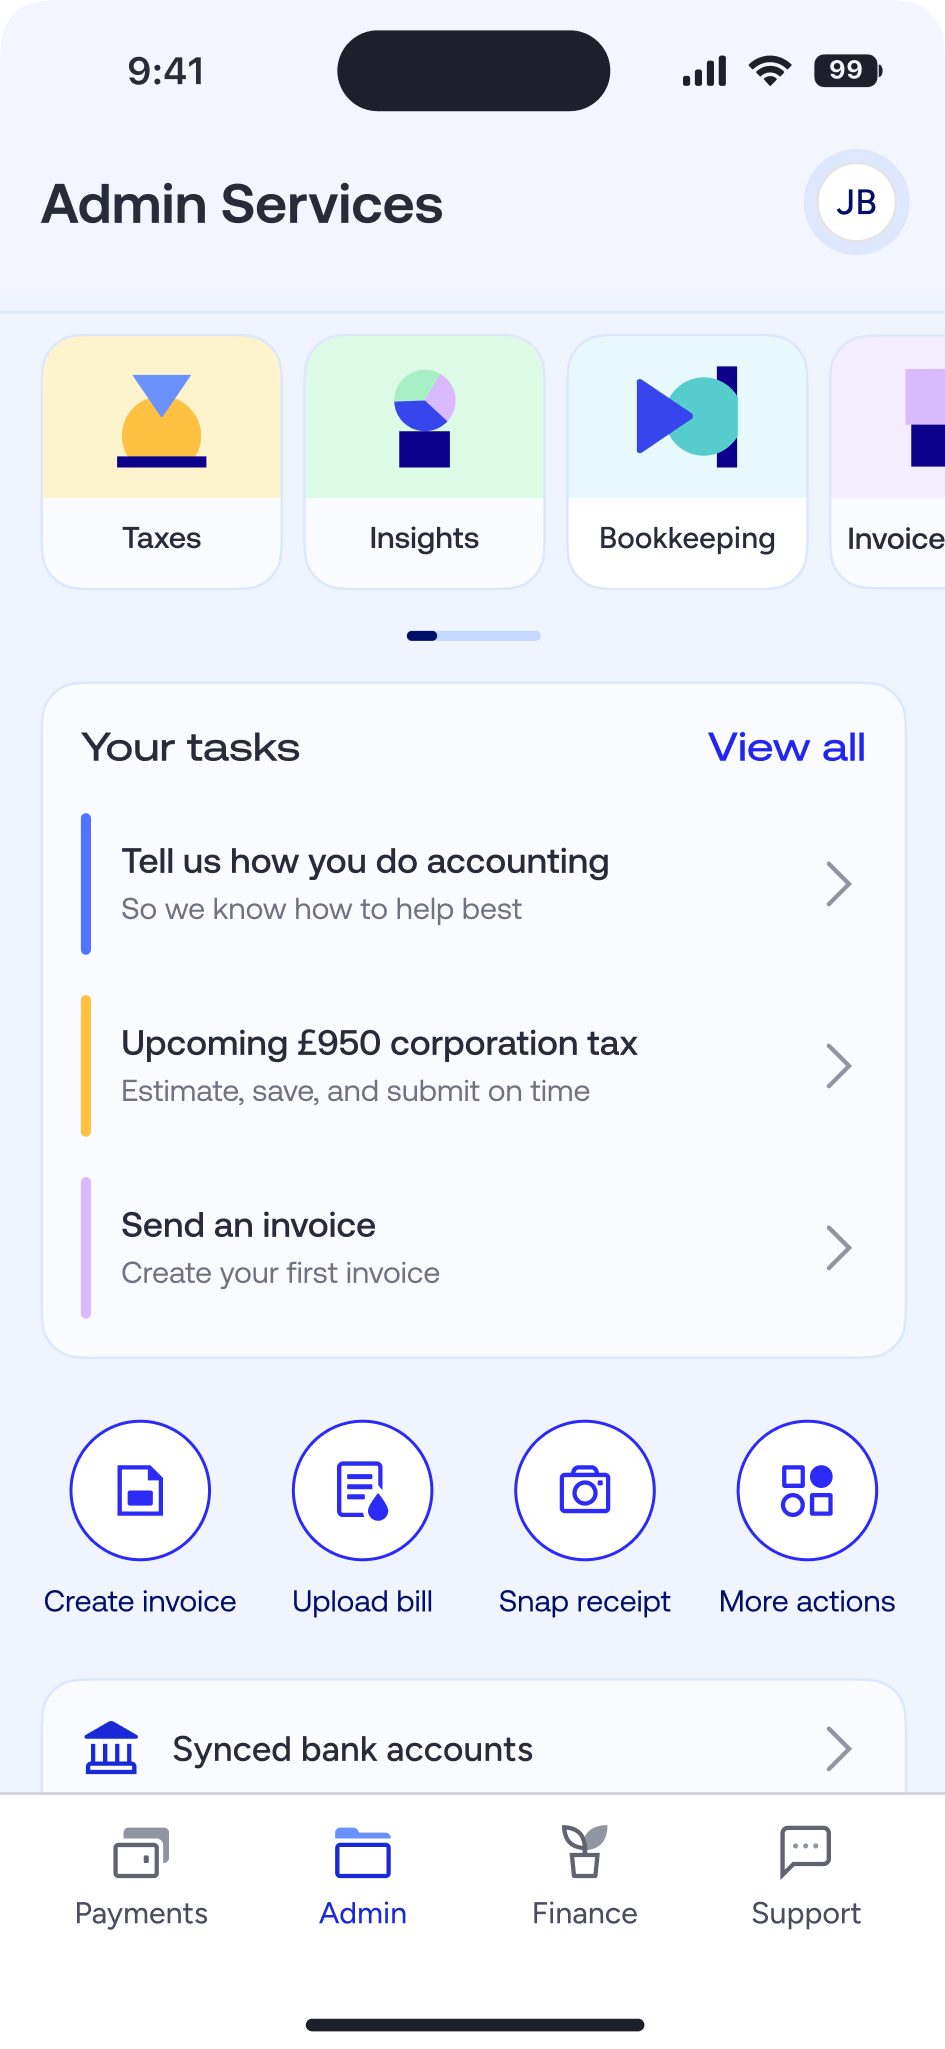
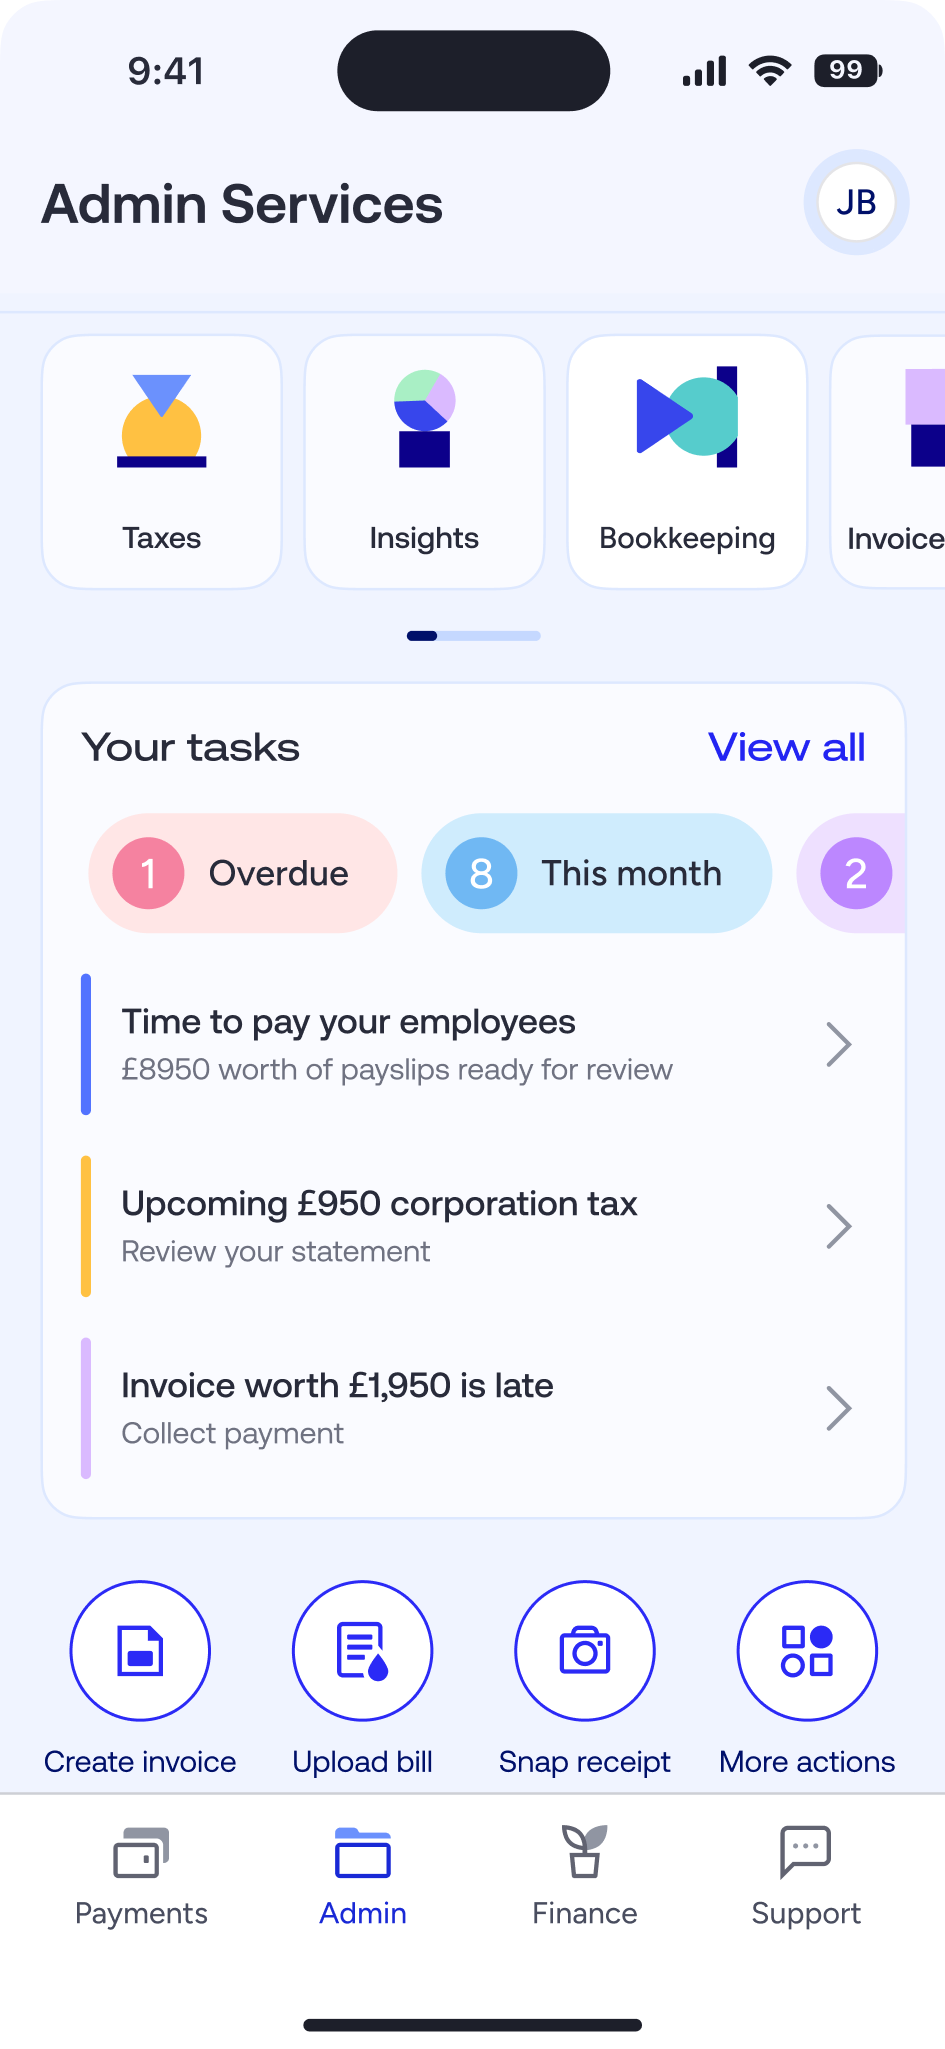
Update tax management section: add new mocks and update descriptions

diff --git a/src/pages/Tide.tsx b/src/pages/Tide.tsx
@@ -93,6 +93,52 @@ function Tide() {
     []
   );
 
+  const taxScreens = useMemo(
+    () => [
+      {
+        id: 'activation',
+        eyebrow: 'Tax Product',
+        title: 'Tax deadlines and estimates',
+        description: 'Automated estimates and VAT management helps businesses prepare for tax obligations.',
+        imageSrc: encodeURI('/assets/Registered Business - VAT registered - Connected (subscribed).png'),
+        imageAlt: 'Registered business VAT estimates view'
+      },
+      {
+        id: 'tax',
+        eyebrow: 'Tax savings on autopilot',
+        title: 'Predict and plan ahead',
+        description: 'Tax savings account that saves on behalf of businesses and bears interest on the balance.',
+        imageSrc: encodeURI('/assets/Tax Account timeline.png'),
+        imageAlt: 'Tax account timeline and actions'
+      },
+      {
+        id: 'filing-to-hmrc',
+        eyebrow: 'Tax estimate',
+        title: 'Filing to HMRC',
+        description: 'Calculation of tax estimate based on trading activity data. Forecast models into the future based last period.',
+        imageSrc: encodeURI('/assets/Filing to HMRC.png'),
+        imageAlt: 'Filing to HMRC interface'
+      },
+      {
+        id: 'payment-received',
+        eyebrow: 'Saving for tax season',
+        title: 'Payment received',
+        description: 'The tax account enables users to add funds manually or automatically.',
+        imageSrc: encodeURI('/assets/Payment received.png'),
+        imageAlt: 'Payment received confirmation'
+      },
+      {
+        id: 'filing-complete',
+        eyebrow: 'Tax completion',
+        title: 'Filing complete',
+        description: 'Confirmation and receipt of completed tax filings and submissions.',
+        imageSrc: encodeURI('/assets/Filing comeplete.png'),
+        imageAlt: 'Filing complete confirmation'
+      }
+    ],
+    []
+  );
+
   const additionalScreens = useMemo(
     () => [
       {
@@ -311,10 +357,10 @@ function Tide() {
       {/* TAX MANAGEMENT */}
       <section className="w-full bg-white py-20 sm:py-24 overflow-x-clip">
         <ScreenGallery 
-          items={signatureScreens}
-          sectionEyebrow="Tide Admin"
-          sectionTitle="Tax Management"
-          sectionDescription="The product anticipates needs and proactively surfaces tasks like upcoming tax deadlines before they became urgent."
+          items={taxScreens}
+          sectionEyebrow="Tax forecasting"
+          sectionTitle="Predict and plan ahead"
+          sectionDescription="Helps micro business owners feel confident about taxes by helping them with tax calculations, tax savings and reminders to pay on time. More coming soon..."
           sectionCTA={{
             label: "View case study",
             href: "#",

diff --git a/src/components/icons/TideLogo.tsx b/src/components/icons/TideLogo.tsx
@@ -27,3 +27,4 @@ export function TideLogo({ className, title = "Tide" }: TideLogoProps) {
 
 
 
+
